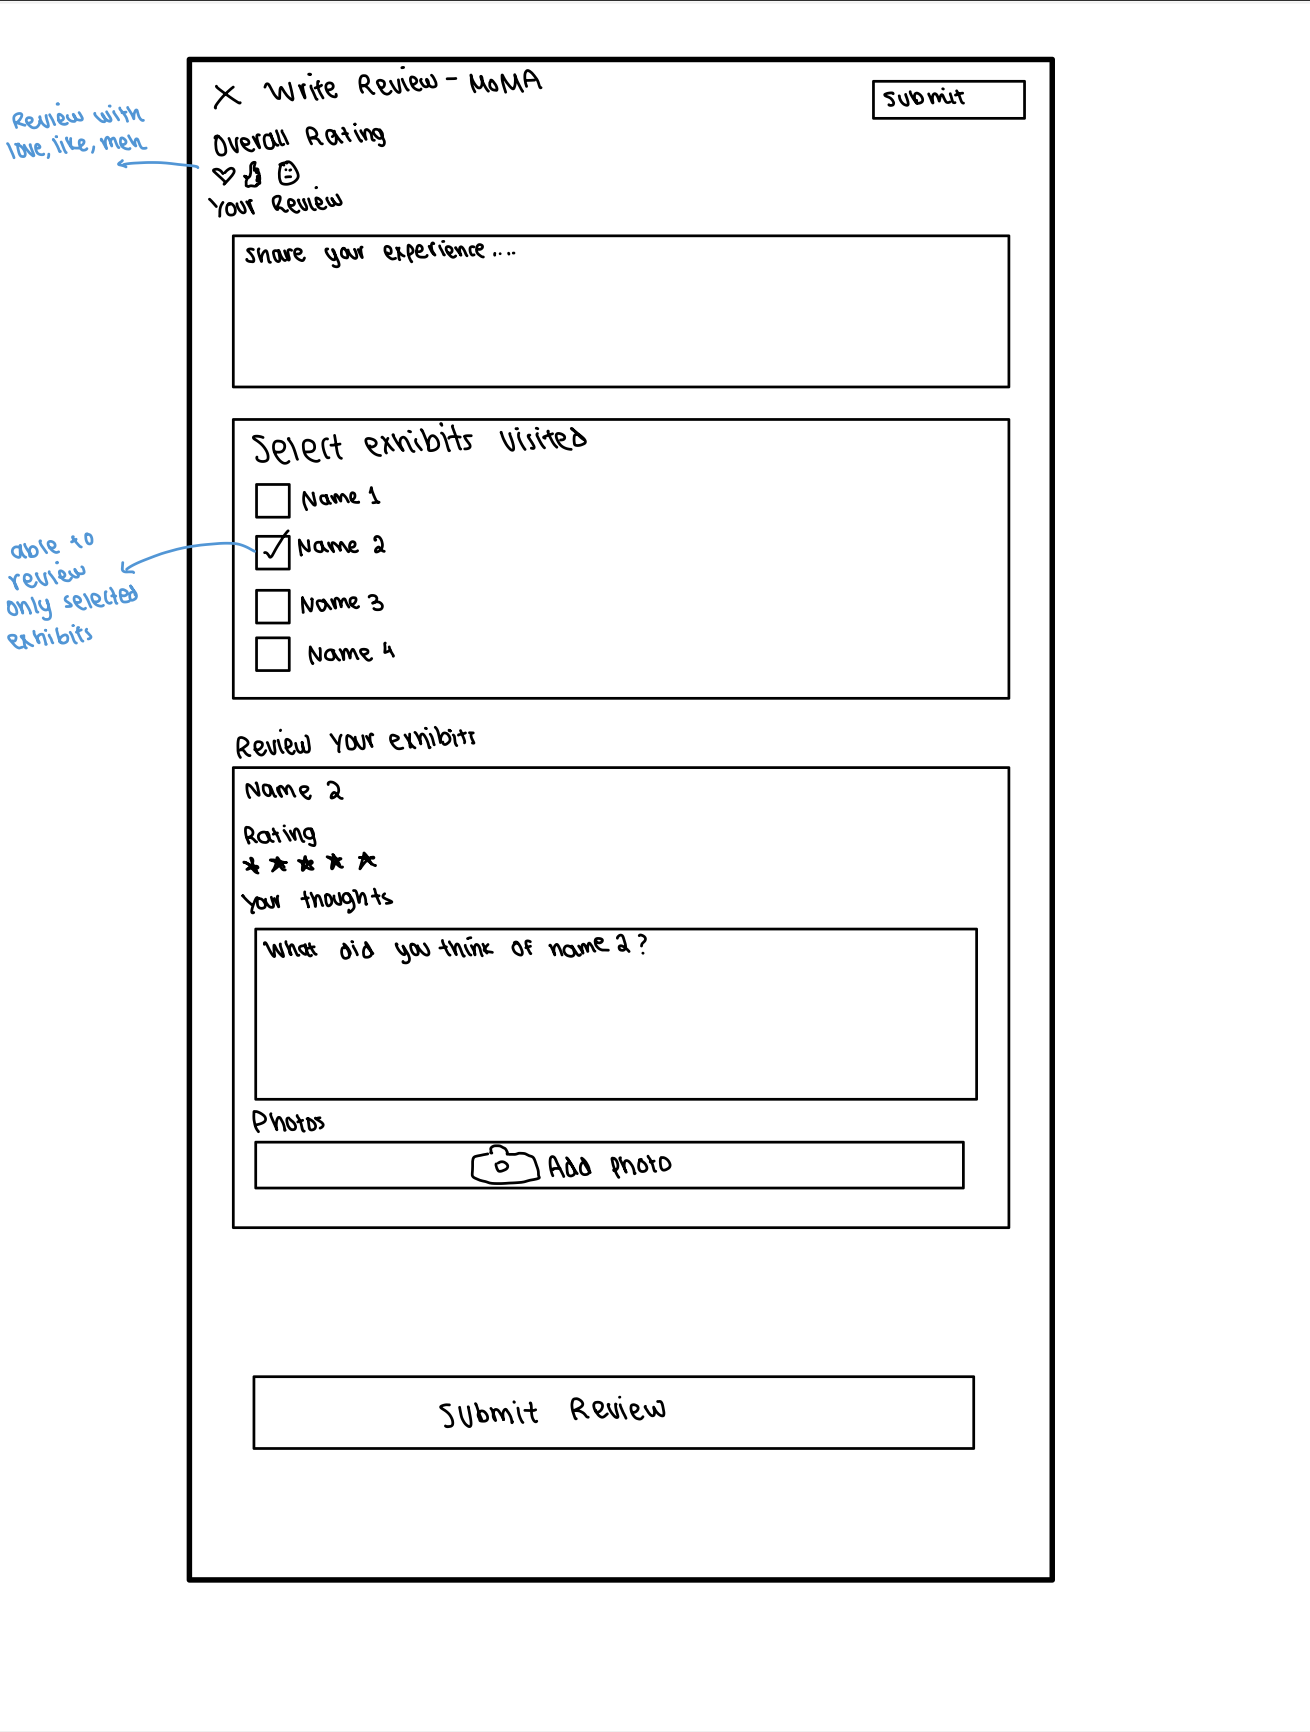
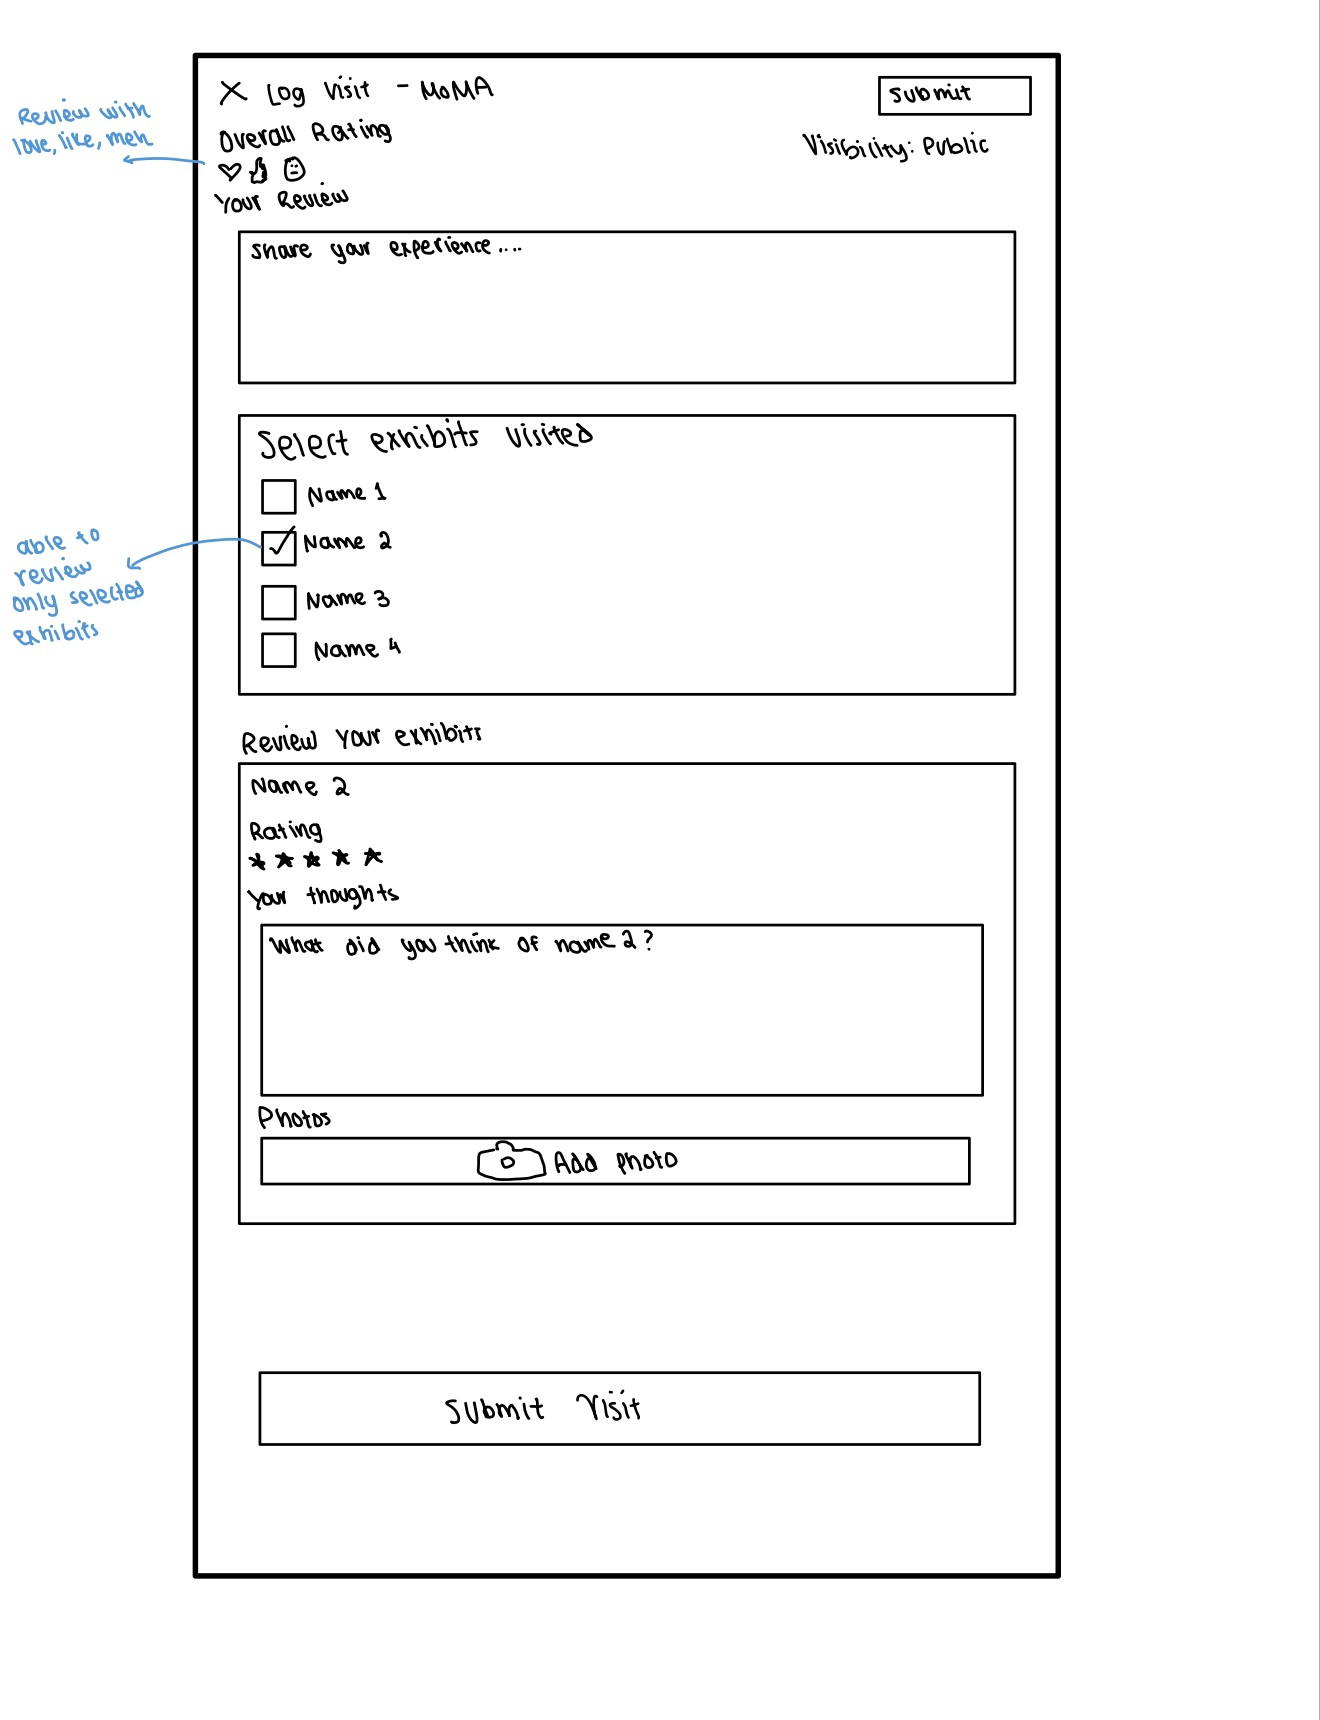
Fixed asset issue and refined user journey.

Changed region(s): [[0.0, 0.0308, 0.8244, 0.9244], [0.1832, 0.7703, 0.7328, 0.8628], [0.7328, 0.8012, 0.7634, 0.832]]

diff --git a/assignments/assignment2/userjourney.md b/assignments/assignment2/userjourney.md
@@ -7,13 +7,13 @@ Maya is in Boston for a work trip and has one free afternoon. She likes contempo
 Maya decides to open MuseMe. On Spotlight (see Spotlight sketch), a short line says “Based on your taste…” with a stack of museum cards. A simple city filter narrows the list. One card stands out—Institue of Conteporary Art—because Spotlight notes it’s similar to places she marked LOVE earlier on past trips. She taps the card.
 
 ## 2. Deciding what to see (Curations + subtle social proof)
-On Museum Subpage — Curations (see Museum Subpage sketch), the header gives a quick blurb, and the Suggested exhibits list ranks pieces by stars based on Maya's followers. Next to one exhibit, she notices a tiny friend cue: Emma ★★★★☆”—her best friend visited last month and liked it. That nudge reduces her uncertainty; she screenshots the card and texts Emma, “I’m here—any must-sees?” Emma replies with two favorites, which match the top suggestions. Maya adds a heart on the museum header and selects "I want to go!" (see sketch) to add the exhibitions to her Favorites for easy re-finding later.
+On Museum Subpage — Curations (see Museum Subpage sketch), the header gives a quick blurb, and the Suggested exhibits list ranks pieces by stars based on the people Maya follows. Next to one exhibit, she notices a tiny friend cue: "Your friend Emma loved this"—her best friend visited last month and liked it. That nudge reduces her uncertainty; she screenshots the card and texts Emma, “I’m here—any must-sees?” Emma replies with two favorites, which match the top suggestions. Maya adds a heart on the museum header and selects "I want to go!" (see sketch) to add the exhibitions to her Favorites for easy re-finding later.
 
 ## 3. Logging the visit (and review)
-Maya visit the Institue of Contemporary Art and goes ott he exhibitions recommended by MuseMe. She is back in time to catch her flight. While waiting for the flight to board, she opens MuseMe, goes on the Browse tab, and searches "Institute of Contemporary Art" (see Browse subpage). She clicks on the museum card and the museum subpage pops up. This time, she selects "Log Visit" (see museum subpage sketch). This takes her to the review page (see Log Visit sketch). She tags the museum as LOVE by selecting the heart emoji. She keeps visibility Public (so friends can see she recommends this museum and the exhibits), and adds two exhibits (by checking the boxes) with 4–5★ plus a quick note and 5 photos. She taps Submit Visit.
+Maya visit the Institue of Contemporary Art the following afternoon. She opens the Profile page (she profile sketch) and looks at her "Favorite Exhibitions" to remember the names of the exhibitions she wanted to see. Later, she is back in time to catch her flight. While waiting for the flight to board, she opens MuseMe, goes on the Browse tab, and searches "Institute of Contemporary Art" (see Browse subpage). She clicks on the museum card and the museum subpage pops up. This time, she selects "Log Visit" (see museum subpage sketch). This takes her to the review page (see Log Visit sketch). She tags the museum as LOVE by selecting the heart emoji. She keeps visibility Public (so friends can see she recommends this museum and the exhibits), and adds two exhibits (by checking the boxes) with 4–5★ plus a quick note and 5 photos. She taps Submit Visit.
 
-## 4. Profile & lasting value
+## 4. Profile
 Back home, she is greeted by her roomate, Christina, and she wants to show her all the exhibits she visited, but she can't remember their names as she is tired from all the traveling. She opens Profile (see Profile sketch). Her new public visit appears under Recent Visits, and her stats show that she has visited 2 new exhibits. She clicks on her visit and shows Christina the photos and the names of the exhibits she saw. Next time she travels, Spotlight will use the recent LOVE tag and exhibit stars to sharpen recommendations.
 
 ## Outcome
-Maya avoided decision fatigue, targeted a museum that matched her taste, and confidently chose exhibits—helped by one relatable social signal (Emma liked this”). She left with a clean diary entry and a saved favorite, and her future suggestions will be better aligned with what she actually enjoys.
+Maya avoided decision fatigue, targeted a museum that matched her taste, and confidently chose exhibits, helped by one relatable social signal ("Emma liked this"). She left with a clean diary entry and a saved favorite, and her future suggestions will be better aligned with what she actually enjoys.
